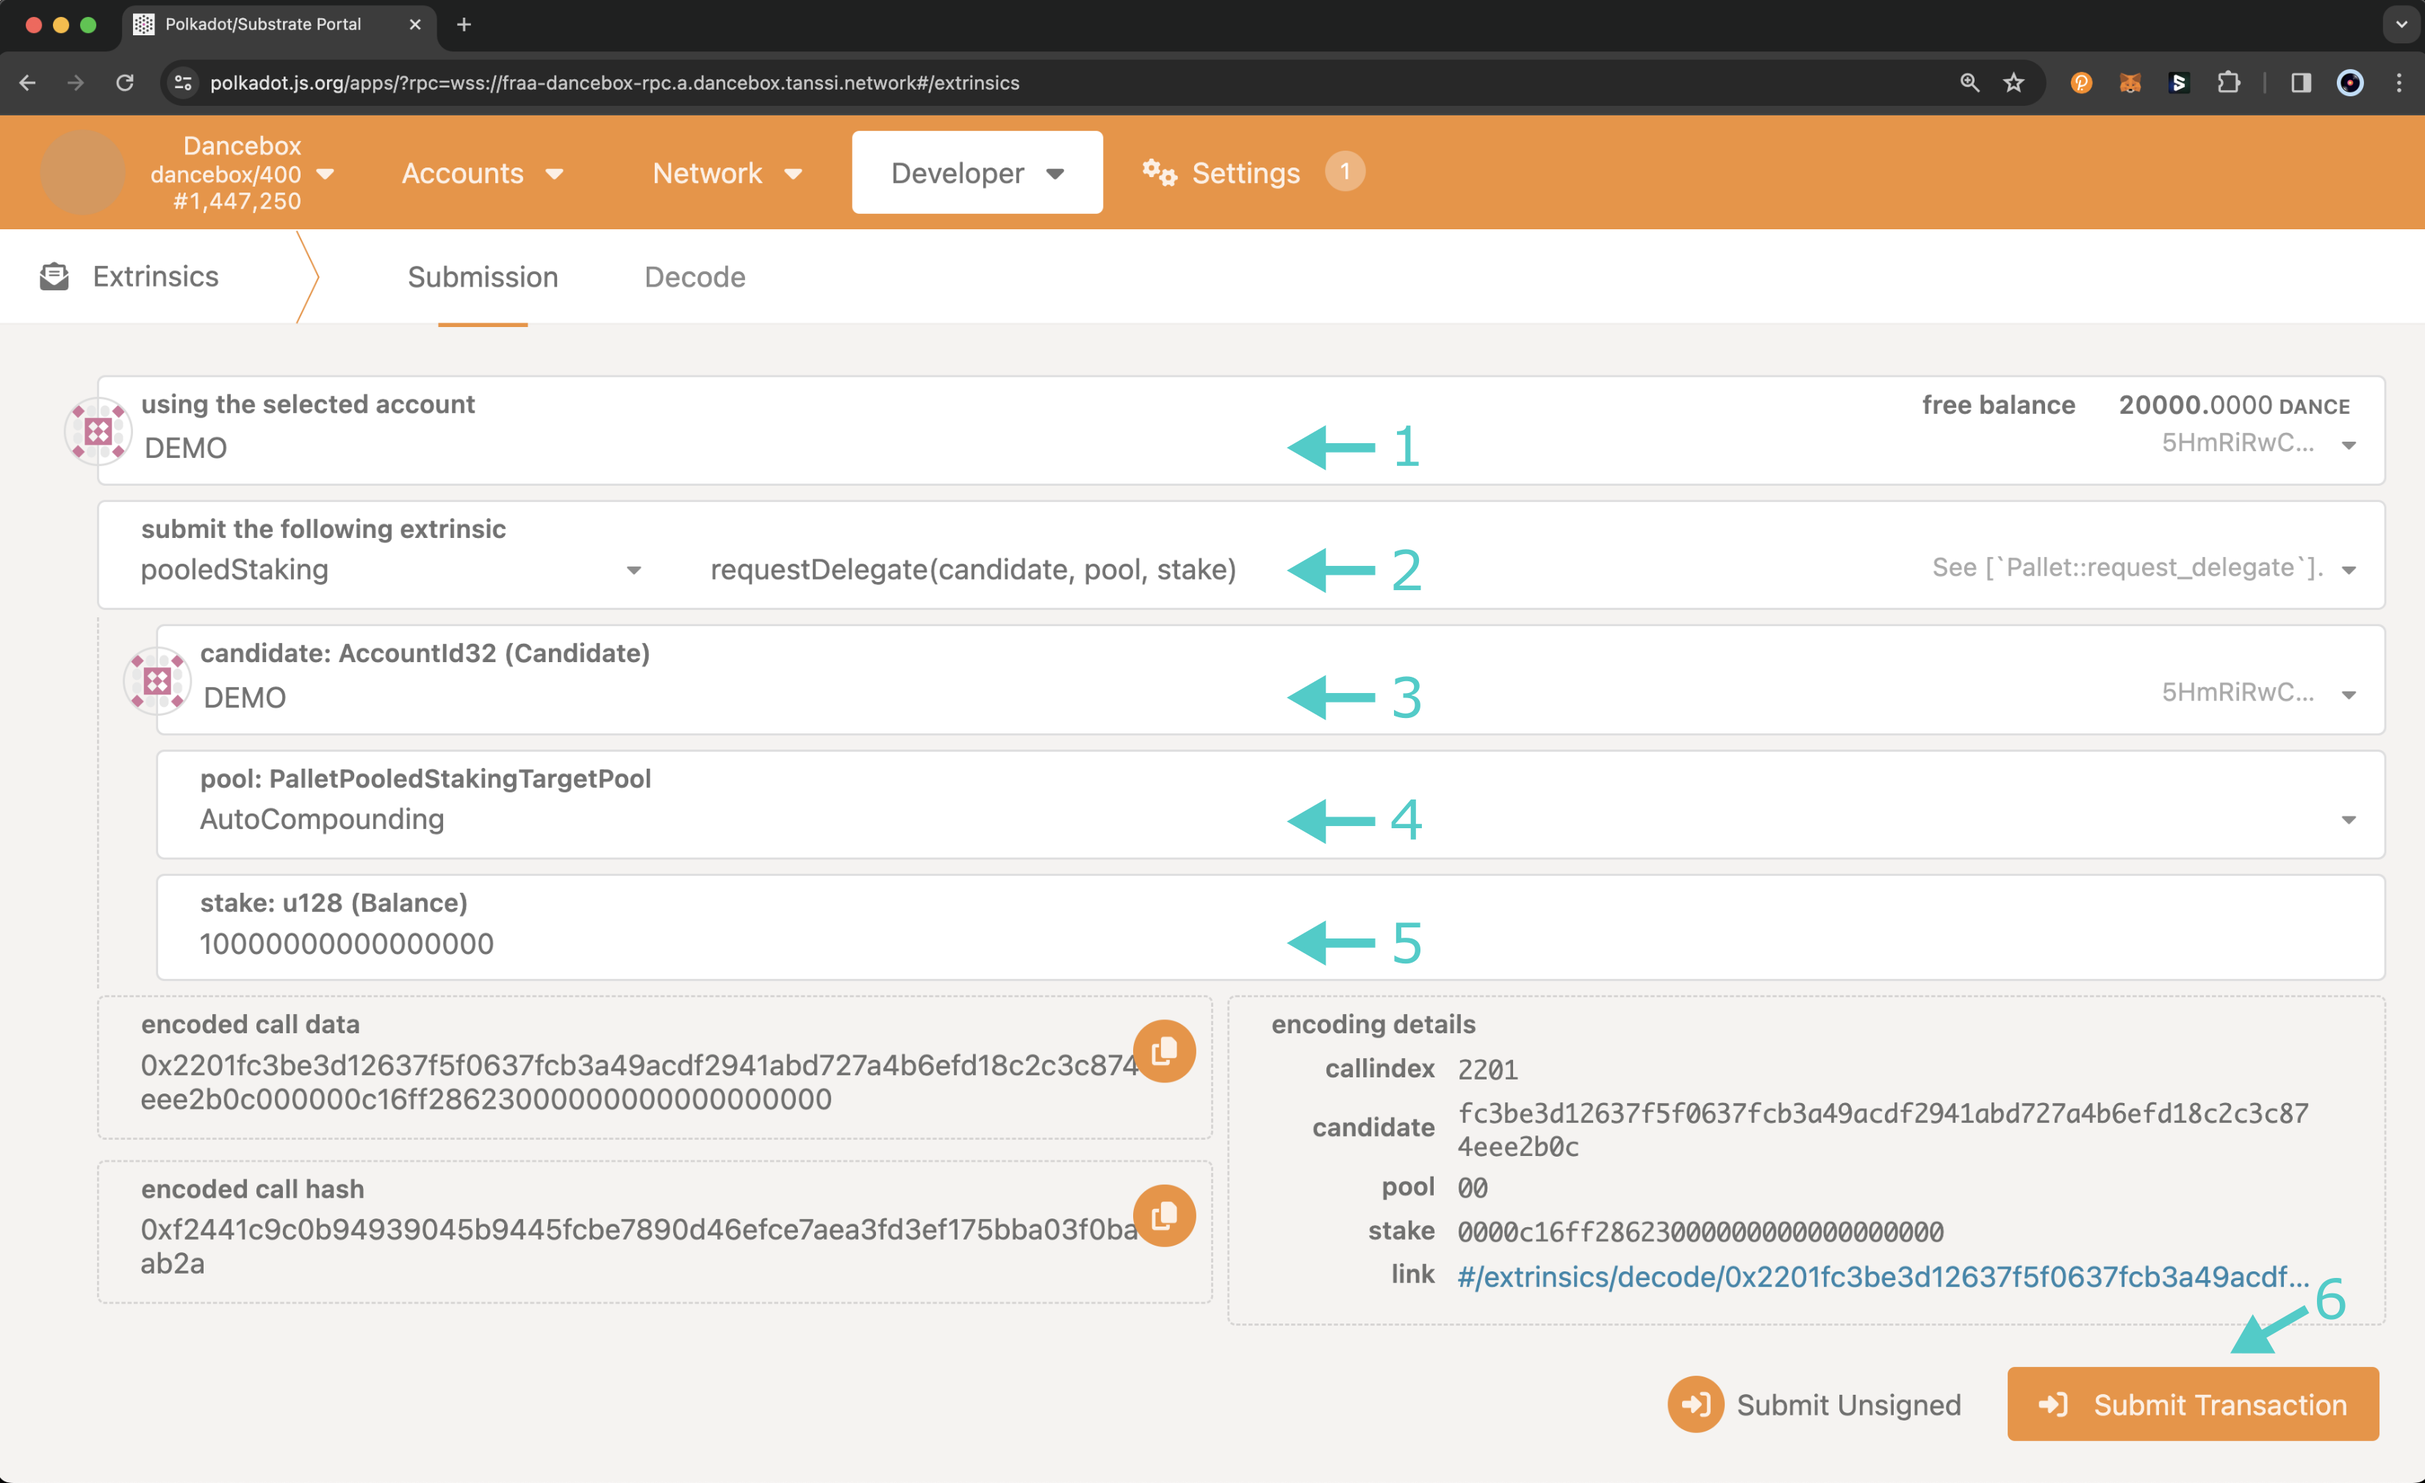
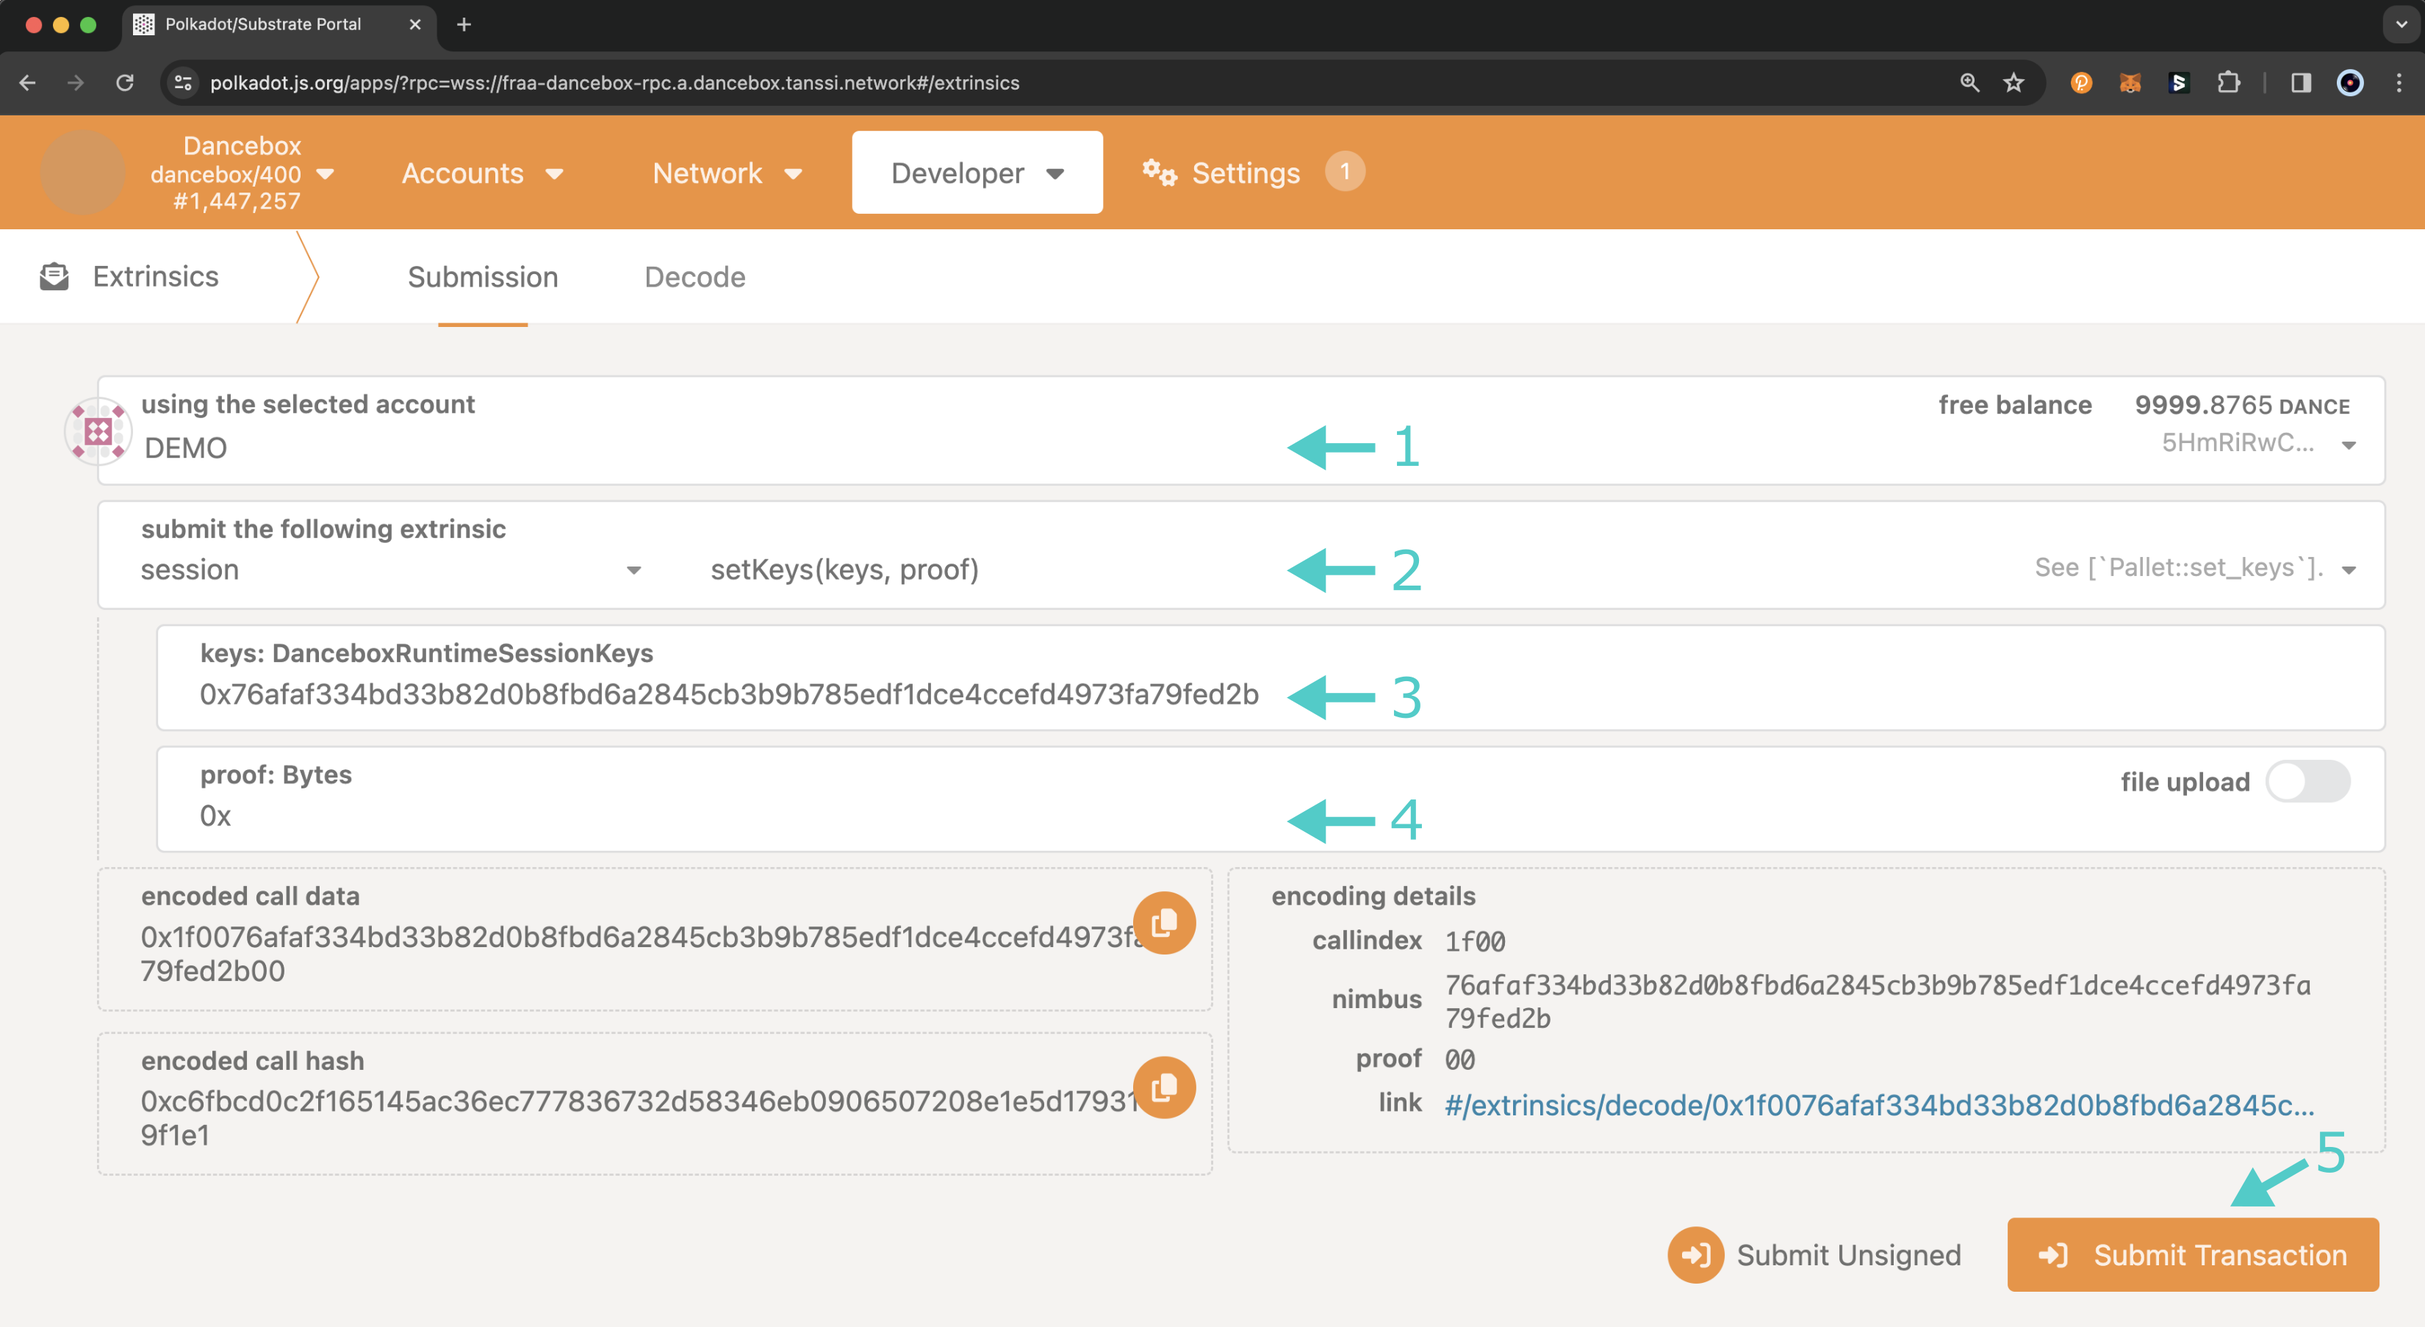
add request and execute flow and add verification steps

diff --git a/node-operators/block-producers/onboarding/account-setup.md b/node-operators/block-producers/onboarding/account-setup.md
@@ -9,32 +9,29 @@ description: Follow these step-by-step instructions on becoming eligible to prod
 
 Before you can start producing blocks on Tanssi and Tanssi Appchains, you'll need to set up your account and establish your eligibility.
 
-To establish your eligibility, you must [spin up a block-producing node](/node-operators/block-producers/onboarding/run-a-block-producer){target=\_blank}, meet the minimum bond requirements, and delegate yourself as a block producer.
+You must have spun up a [block-producing node](/node-operators/block-producers/onboarding/run-a-block-producer){target=\_blank} to tackle the account setup steps in this guide.
 
-Then, you'll need to set up your account by generating [session keys](https://wiki.polkadot.network/docs/learn-keys#session-keys){target=\_blank} and mapping those session keys to your account. This account is the account to which delegators will choose to delegate and where your rewards will be distributed.
+You'll need to set up your account by generating [session keys](https://wiki.polkadot.network/docs/learn-keys#session-keys){target=\_blank} and mapping those session keys to your account.  This account is the one to which delegators will choose to delegate and where your rewards will be distributed.
+
+To establish eligibility, you must delegate yourself as a block producer and meet the minimum bond requirements.
 
 By following the steps outlined in this guide, you'll learn everything you need to know to get started producing blocks within the Tanssi ecosystem.
 
-## Submit Self-Delegation {: #TODO }
+## Important Variables {: #important-variables }
 
-The first step of becoming eligible to produce blocks on Tanssi and Tanssi Appchains is to delegate to your own account. To do this, you'll be required to submit a minimum of 10,000 DANCE tokens.
+When establishing eligibility to produce blocks, there are a couple of variables to be aware of:
 
-Head to [Polkadot.js Apps](https://polkadot.js.org/apps/?rpc=wss://fraa-dancebox-rpc.a.dancebox.tanssi.network#/extrinsics){target=\_blank}, click on the **Developer** tab, select **Extrinsics** from the dropdown, and take the following steps:
+- **Minimum self-delegation** - there is a minimum amount you must self-delegate to be considered eligible
+- **Number of active candidates** - the top candidates by stake that can actively produce blocks
 
-1. Select the account from which you want to send the extrinsic. This account must be the same account that you are delegating to and is the account that you want to become a block producer
-2. Select the **pooledStaking** module and the **requestDelegate** extrinsic
-3. Enter your account, which is, again, the same account you are sending the extrinsic from and the account you want to become a block producer
-4. Choose the target pool
-5. Enter the amount to stake. This amount must meet the minimum, which is {{ networks.dancebox.staking.min_self_del.dance }} DANCE tokens. You'll need to submit the value in Planck, so for {{ networks.dancebox.staking.min_self_del.dance }}, you'll need to enter `{{ networks.dancebox.staking.min_self_del.planck }}`
-6. Click **Submit Transaction** and sign and send the transaction from your wallet
-
-![Create and submit an extrinsic to self-delegate on Polkadot.js Apps](/images/node-operators/block-producers/onboarding/account-setup/setup-1.webp)
-
-After submitting your self-delegation, it will take a minimum of {{ networks.dancebox.staking.staking_session_delay.display }} sessions before you'll be able to join the staking pool.
+|          Variable           |                          Value                           |
+|:---------------------------:|:--------------------------------------------------------:|
+|   Minimum self-delegation   | {{ networks.dancebox.staking.min_self_del.dance }} DANCE |
+| Number of active candidates | {{ networks.dancebox.staking.top_eligible_candidates }}  |
 
 ## Map an Account to Your Block Producer Node {: #map-account }
 
-The next step is a two-step process that generates [session keys](https://wiki.polkadot.network/docs/learn-keys#session-keys){target=\_blank} and maps the session keys to your account. Session keys are used to perform network operations, such as signing blocks. By mapping the session key to your account, you create an association between your account and your block-producing node.
+The first step is a two-step process that generates [session keys](https://wiki.polkadot.network/docs/learn-keys#session-keys){target=\_blank} and maps the session keys to your account. Session keys are used to perform network operations, such as signing blocks. By mapping the session key to your account, you create an association between your account and your block-producing node.
 
 You will need to create session keys for your primary and backup servers. Each of your servers, your primary and backup, should have its own unique keys. Since the keys never leave your servers, you can consider them a unique ID for that server.
 
@@ -63,7 +60,7 @@ Make sure you write down your session keys; you'll need to map your session keys
 
 ### Map Session Keys {: #map-session-keys }
 
-To perform the final step and map your session keys to your account, head to [Polkadot.js Apps](https://polkadot.js.org/apps/?rpc=wss://fraa-dancebox-rpc.a.dancebox.tanssi.network#/extrinsics){target=\_blank}, click on the **Developer** tab, select **Extrinsics** from the dropdown, and take the following steps:
+To perform the next step and map your session keys to your account, head to [Polkadot.js Apps](https://polkadot.js.org/apps/?rpc=wss://fraa-dancebox-rpc.a.dancebox.tanssi.network#/extrinsics){target=\_blank}, click on the **Developer** tab, select **Extrinsics** from the dropdown, and take the following steps:
 
 1. Select your account, which should be the same account that you previously self-delegated
 2. Select the **session** module and the **setKeys** extrinsic
@@ -71,7 +68,7 @@ To perform the final step and map your session keys to your account, head to [Po
 4. For **proof**, enter `0x`
 5. Click **Submit Transaction** and sign and send the transaction from your wallet
 
-![Create and submit an extrinsic to set session keys on Polkadot.js Apps](/images/node-operators/block-producers/onboarding/account-setup/setup-2.webp)
+![Create and submit an extrinsic to set session keys on Polkadot.js Apps](/images/node-operators/block-producers/onboarding/account-setup/setup-1.webp)
 
 Using the `session.keyOwner` method, you can verify that your session keys have been mapped to your account as expected. To do this on [Polkadot.js Apps](https://polkadot.js.org/apps/?rpc=wss://fraa-dancebox-rpc.a.dancebox.tanssi.network#/extrinsics){target=\_blank}, click on the **Developer** tab, select **Chain state** from the dropdown, and take the following steps:
 
@@ -81,4 +78,75 @@ Using the `session.keyOwner` method, you can verify that your session keys have 
 4. Click the **+** button next to the extrinsic field
 5. The account associated with the session keys, which should be your account, will be displayed at the bottom of the page
 
-![Create and submit query to verify session keys on Polkadot.js Apps](/images/node-operators/block-producers/onboarding/account-setup/setup-3.webp)
+![Create and submit query to verify session keys on Polkadot.js Apps](/images/node-operators/block-producers/onboarding/account-setup/setup-2.webp)
+
+## Submit Self-Delegation {: #submit-self-delegation }
+
+The next step towards becoming eligible to produce blocks on Tanssi and Tanssi Appchains is to delegate to your own account. To do this, you'll be required to submit a minimum of {{ networks.dancebox.staking.min_self_del.dance }} DANCE tokens.
+
+However, you must be in the top {{ networks.dancebox.staking.top_eligible_candidates }} candidates by total stake to produce blocks. So, if the candidate at position {{ networks.dancebox.staking.top_eligible_candidates }} has a total stake of more than {{ networks.dancebox.staking.min_self_del.dance }} DANCE, you'll need to ensure that your total stake is greater than theirs.
+
+After you've submitted the request to delegate, you'll need to wait for a minimum of {{ networks.dancebox.staking.staking_session_delay.sessions.display }} sessions before you can execute the pending request. There are {{ networks.dancebox.session.blocks }} blocks in a session. So, {{ networks.dancebox.staking.staking_session_delay.sessions.display }} sessions are {{ networks.dancebox.staking.staking_session_delay.blocks }} blocks, which can take around {{ networks.dancebox.staking.staking_session_delay.hours.display }} hours.
+
+### Request Delegate {: #request-delegate }
+
+Head to [Polkadot.js Apps](https://polkadot.js.org/apps/?rpc=wss://fraa-dancebox-rpc.a.dancebox.tanssi.network#/extrinsics){target=\_blank}, click on the **Developer** tab, select **Extrinsics** from the dropdown, and take the following steps:
+
+1. Select the account from which you want to send the extrinsic. This account must be the same account that you are delegating to and is the account that you want to become a block producer
+2. Select the **pooledStaking** module and the **requestDelegate** extrinsic
+3. Enter your account, which is, again, the same account you are sending the extrinsic from and the account you want to become a block producer
+4. Choose the target pool. The pool can either be the auto-compounding pool, which auto-compounds delegation rewards, or the manual rewards pool, in which all actions related to rewards are manual
+5. Enter the amount to stake. This amount must meet the minimum, which is {{ networks.dancebox.staking.min_self_del.dance }} DANCE tokens. You'll need to submit the value in Planck, so for {{ networks.dancebox.staking.min_self_del.dance }}, you'll need to enter `{{ networks.dancebox.staking.min_self_del.planck }}`
+6. Click **Submit Transaction** and sign and send the transaction from your wallet
+
+![Create and submit an extrinsic to self-delegate on Polkadot.js Apps](/images/node-operators/block-producers/onboarding/account-setup/setup-3.webp)
+
+### Execute the Pending Request {: #execute-pending-request }
+
+Before executing the pending request, you'll need to retrieve the session at which you submitted the request to delegate. To do so, head to [Polkadot.js Apps](https://polkadot.js.org/apps/?rpc=wss://fraa-dancebox-rpc.a.dancebox.tanssi.network#/extrinsics){target=\_blank}, click on the **Developer** tab, select **Chain state** from the dropdown, and take the following steps:
+
+1. Select the **pooledStaking** module and the **pendingOperations** query
+2. Enter your account
+3. Toggle the **include option** slider off
+4. Click the **+** button next to the extrinsic field
+5. The pending request will be displayed at the bottom of the page
+
+![Query the pending self-delegation request on Polkadot.js Apps](/images/node-operators/block-producers/onboarding/account-setup/setup-4.webp)
+
+In the example in the above image, the delegate request to join the auto-compounding pool was submitted during session 4,929. So, the request can be executed starting at session 4,931.
+
+Take note of the operation and the session number at which you submitted the request, as you'll need both values to execute the pending request.
+
+You can run another query from the **Chain state** page to check the current session. To do so, you can:
+
+1. Select the **session** module and the **currentIndex** query
+2. Click the **+** button next to the extrinsic field
+3. The current session will be displayed at the bottom of the page
+
+![Query the current session index on Polkadot.js Apps](/images/node-operators/block-producers/onboarding/account-setup/setup-5.webp)
+
+If the request can be executed, select **Extrinsics** from the **Developer** dropdown and take the following steps:
+
+1. Select the account from which you want to send the extrinsic
+2. Select the **pooledStaking** module and the **executePendingOperations** extrinsic
+3. For **delegator**, enter your account, which is the same account you sent the self-delegate request from
+4. For **operation**, select the type of operation to execute. This should be either **JoiningAutoCompounding** or **JoiningManualRewards**, depending on the target pool you selected at the time of submitting the self-delegation request
+5. For **candidate**, enter the same account as you did in the **delegator** field
+6. For **at**, enter the session key at which you submitted the delegate request
+7. Click **Submit Transaction** and sign and send the transaction from your wallet
+
+![Create and submit an extrinsic to execute the pending self-delegation request on Polkadot.js Apps](/images/node-operators/block-producers/onboarding/account-setup/setup-4.webp)
+
+Now, you have completed all of the necessary account setup to be eligible to produce blocks!
+
+## Verify That Your Account Is in the List of Eligible Candidates {: #verify }
+
+If you've followed all of the steps in this guide and have fully synced your block-producing node, you are now eligible to produce blocks. To verify that you are in the list of eligible candidates, you can go to [Polkadot.js Apps](https://polkadot.js.org/apps/?rpc=wss://fraa-dancebox-rpc.a.dancebox.tanssi.network#/extrinsics){target=\_blank}, click on the **Developer** tab, select **Chain state** from the dropdown, and take the following steps:
+
+1. Select the **pooledStaking** module and the **sortedEligibleCandidates** query
+2. Click the **+** button next to the extrinsic field
+3. A list of the eligible candidates and their stake will be displayed at the bottom of the page. You can search for your address to ensure you are eligible to produce blocks
+
+![Query the current list of eligible candidates on Polkadot.js Apps](/images/node-operators/block-producers/onboarding/account-setup/setup-4.webp)
+
+Remember that you'll need to be in the top {{ networks.dancebox.staking.top_eligible_candidates }} candidates by total stake to produce blocks.
